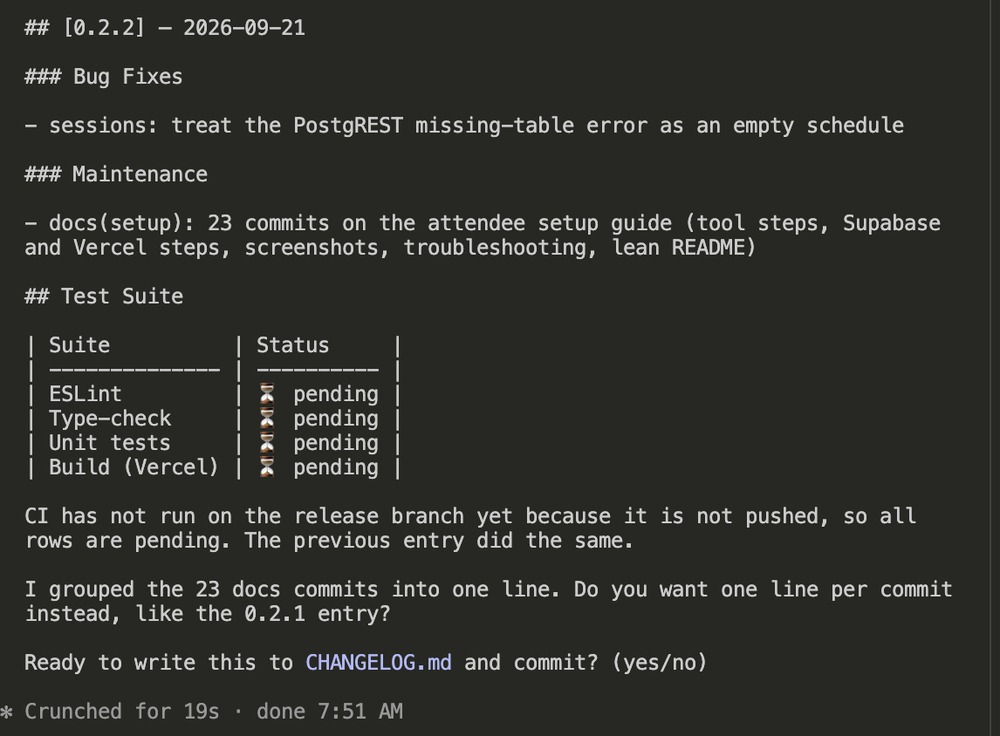
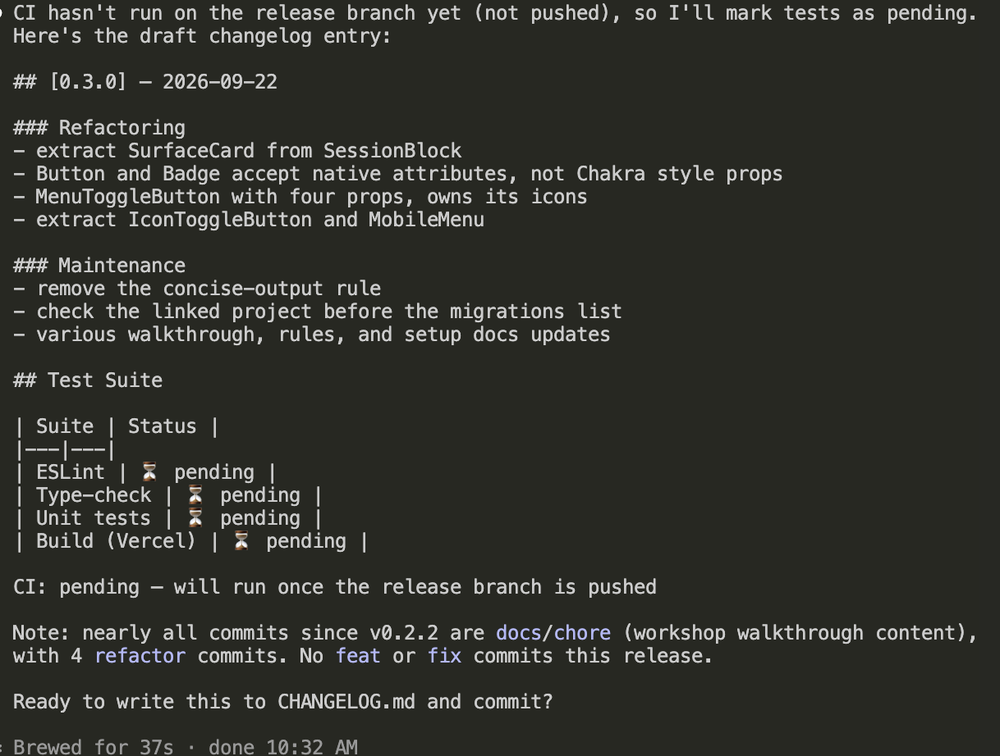
docs(walkthrough): non-deterministic phase reports, changelog diff step

Changed region(s): [[0.0, 0.1562, 0.961, 1.0], [0.0, 0.0, 0.992, 0.0625], [0.0, 0.0938, 0.279, 0.125]]

diff --git a/docs/starter-repo/release-manager-walkthrough.md b/docs/starter-repo/release-manager-walkthrough.md
@@ -41,8 +41,10 @@ The agent stops after each phase. Read the report, then answer.
    ![The version bump committed](images/release-manager-bump-done.png)
 
 3. **Phase 2, changelog.** The agent shows a draft of the changelog. Type
-   **yes** to write it. Then it reports two commits, not pushed yet. Type
-   **yes** for Phase 3.
+   **yes** to write it. It shows the diff written to `CHANGELOG.md`. Then it
+   reports two commits, not pushed yet. Type **yes** for Phase 3.
+
+   ![The diff written to CHANGELOG.md](images/release-manager-changelog-diff.png)
 
    The agent did ask to confirm the version bump — this screenshot is a status
    catch-up after that, showing the branch, the version bump and the
